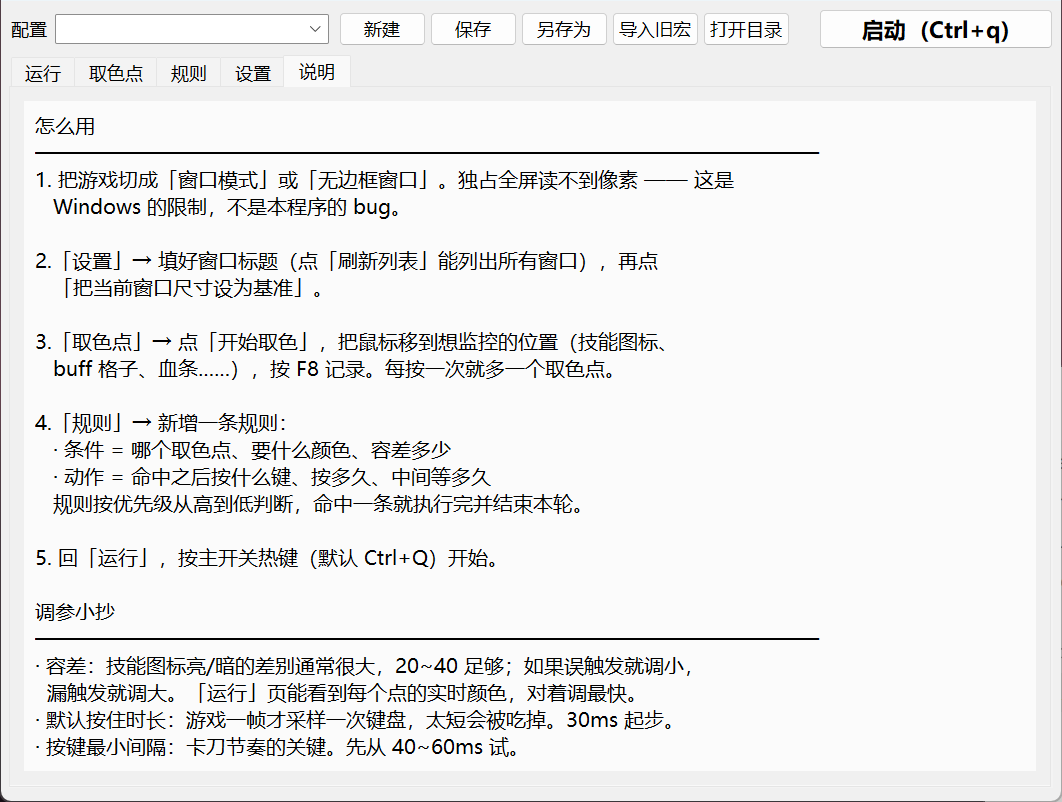
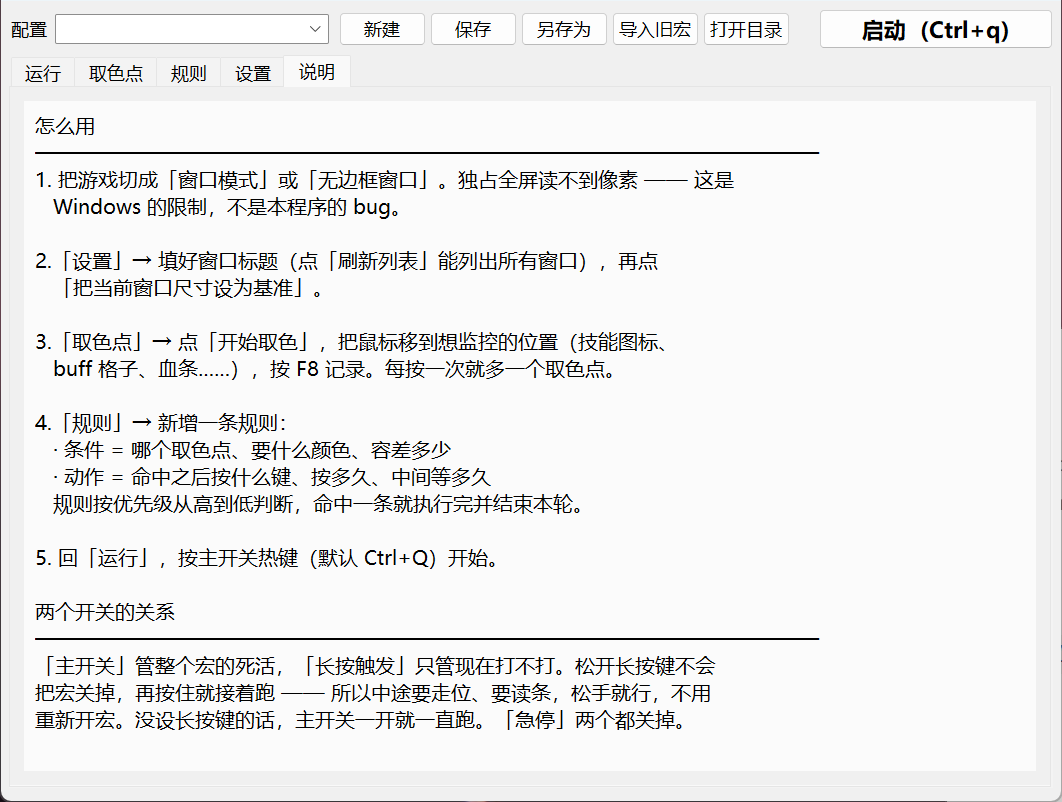
修复主开关与长按触发键共用一个标志导致的误关
_rebind_hotkeys 把 toggle 和 hold 两个热键接到了同一个 _active 上：
toggle 调 engine.toggle()，hold 松开时调 set_active(False)。
从旧宏导入的配置正好两个都有（settings.json 里的 global_key + main_macro.hotkey），
于是 Ctrl+Q 开宏后，侧键按一下再松开，整个宏就被关掉了，得重新开。
默认配置只有 toggle + panic，所以之前的冒烟测试和界面截图都没暴露。

拆成两个标志：_armed（主开关）和 _trigger（长按键），
active = armed and (trigger or 没绑长按键)。松开长按键只是暂停，
armed 保持不变，再按住就接着跑。

顺带三处：
- delay 动作从 sleep() 改成 _abort_sequence.wait()，否则急停时引擎线程
  要把剩下的延迟睡完才响应（键是松开了，但序列还会继续走）。
- Profile.problems() 增加「一条规则都没有」，否则空配置能启动、显示运行中、
  然后一声不响什么都不做。
- README 里的行数写错了（700 → 实际引擎 1700 + 界面 1500），
  并补上「目前不做什么」和「测到哪一步」两节：清怪/背包/计时器等没做，
  取色耗时是在桌面上实测的、还没对着游戏客户端验证过。

新增 6 个回归测试覆盖 armed/trigger 的交互。

diff --git a/bnsmacro/ui/app.py b/bnsmacro/ui/app.py
@@ -26,7 +26,7 @@ REFRESH_MS = 120
 
 HOTKEY_SLOTS = [
     ("toggle", "主开关", "开/关整个宏。"),
-    ("hold", "长按触发", "按住时才跑，松开就停（可留空）。"),
+    ("hold", "长按触发", "设了它就得按住才动；留空则开了就一直跑。"),
     ("panic", "急停", "立刻停宏并松开所有按键。"),
 ]
 
@@ -510,7 +510,7 @@ class App(tk.Tk):
             var.set(hk.describe() if hk and hk.key else "未设置")
         toggle = self.profile.hotkeys.get("toggle")
         label = toggle.describe() if toggle and toggle.key else "未设置"
-        base = "停止" if self.engine.active else "启动"
+        base = "停止" if self.engine.armed else "启动"
         self.btn_run.configure(text=f"{base}  ({label})")
 
     def _refresh_probe_tree(self) -> None:
@@ -628,18 +628,23 @@ class App(tk.Tk):
         for name in ("toggle", "hold", "panic"):
             self.hotkeys.remove(name)
         handlers = {
+            # the toggle key owns the master switch; the hold key owns only
+            # the trigger.  They must never write the same flag.
             "toggle": (self.engine.toggle, None),
-            "hold": (lambda: self.engine.set_active(True),
-                     lambda: self.engine.set_active(False)),
+            "hold": (lambda: self.engine.set_trigger(True),
+                     lambda: self.engine.set_trigger(False)),
             "panic": (self._panic, None),
         }
+        hold = self.profile.hotkeys.get("hold")
+        self.engine.set_requires_trigger(bool(hold and hold.key and hold.enabled))
         for slot, (on_press, on_release) in handlers.items():
             hk = self.profile.hotkeys.get(slot)
             if not hk or not hk.key or not hk.enabled:
                 continue
+            mode = "hold" if slot == "hold" else hk.mode
             self.hotkeys.set(Binding(
                 name=slot, key=hk.key, modifiers=hk.modifiers,
-                mode=hk.mode, swallow=hk.swallow,
+                mode=mode, swallow=hk.swallow,
                 on_press=on_press, on_release=on_release,
             ))
 
@@ -649,7 +654,7 @@ class App(tk.Tk):
 
     def _toggle_macro(self) -> None:
         problems = self.profile.problems()
-        if not self.engine.active and problems:
+        if not self.engine.armed and problems:
             if not messagebox.askokcancel(
                     "配置有问题", "\n".join(problems) + "\n\n还是要启动吗？", parent=self):
                 return
@@ -968,10 +973,14 @@ class App(tk.Tk):
             if status.active:
                 self.var_state.set("运行中")
                 self.lbl_state.configure(foreground="#1e8449")
+            elif self.engine.waiting_for_trigger:
+                hold = self.profile.hotkeys.get("hold")
+                self.var_state.set(f"等待 {hold.describe()}")
+                self.lbl_state.configure(foreground="#b9770e")
             else:
                 self.var_state.set("已停止")
                 self.lbl_state.configure(foreground="#7f8c8d")
-            base = "停止" if status.active else "启动"
+            base = "停止" if self.engine.armed else "启动"
             toggle = self.profile.hotkeys.get("toggle")
             label = toggle.describe() if toggle and toggle.key else "未设置"
             self.btn_run.configure(text=f"{base}  ({label})")
@@ -1038,6 +1047,12 @@ HELP_TEXT = """\
    规则按优先级从高到低判断，命中一条就执行完并结束本轮。
 
 5. 回「运行」，按主开关热键（默认 Ctrl+Q）开始。
+
+两个开关的关系
+────────────────────────────────────────────────────────
+「主开关」管整个宏的死活，「长按触发」只管现在打不打。松开长按键不会
+把宏关掉，再按住就接着跑 —— 所以中途要走位、要读条，松手就行，不用
+重新开宏。没设长按键的话，主开关一开就一直跑。「急停」两个都关掉。
 
 调参小抄
 ────────────────────────────────────────────────────────

diff --git a/bnsmacro/engine.py b/bnsmacro/engine.py
@@ -77,6 +77,13 @@ class MacroEngine:
         self._lock = threading.RLock()
         self._thread: Optional[threading.Thread] = None
         self._stop = threading.Event()
+        # The macro runs only when it is BOTH armed (master switch) and, if a
+        # hold key is configured, that key is down.  Two separate flags: an
+        # earlier version let the toggle key and the hold key write the same
+        # boolean, so releasing the hold key switched the whole macro off.
+        self._armed = False
+        self._trigger = False
+        self._requires_trigger = False
         self._active = threading.Event()
         self._abort_sequence = threading.Event()
         self._sender = Sender()
@@ -130,9 +137,46 @@ class MacroEngine:
             self._capture.close()
             self._capture = None
 
-    def set_active(self, active: bool) -> None:
-        was = self._active.is_set()
-        if active:
+    # The master switch.  This is what the toggle hotkey and the big button
+    # drive; it survives the hold key going up and down.
+    def set_armed(self, armed: bool) -> None:
+        with self._lock:
+            if self._armed == armed:
+                return
+            self._armed = armed
+        self.log("宏已开启" if armed else "宏已关闭", LOG_INFO)
+        self._recompute()
+
+    def toggle(self) -> None:
+        self.set_armed(not self._armed)
+
+    # The hold key, if the profile has one.  Never touches _armed.
+    def set_trigger(self, held: bool) -> None:
+        with self._lock:
+            if self._trigger == held:
+                return
+            self._trigger = held
+        self._recompute()
+
+    def set_requires_trigger(self, required: bool) -> None:
+        """Tell the engine whether a hold key is bound at all.
+
+        With no hold key, being armed is enough to run.  With one, the macro
+        idles until it is pressed.
+        """
+        with self._lock:
+            if self._requires_trigger == required:
+                return
+            self._requires_trigger = required
+            self._trigger = False
+        self._recompute()
+
+    def _recompute(self) -> None:
+        with self._lock:
+            want = self._armed and (self._trigger or not self._requires_trigger)
+        if want == self._active.is_set():
+            return
+        if want:
             self._active.set()
         else:
             self._active.clear()
@@ -141,11 +185,20 @@ class MacroEngine:
                 self._sender.release_all()
             except InputError:
                 pass
-        if was != active:
-            self.log("宏已启动" if active else "宏已停止", LOG_INFO)
 
-    def toggle(self) -> None:
-        self.set_active(not self._active.is_set())
+    def set_active(self, active: bool) -> None:
+        """Hard stop / start, used by 急停 and by shutdown."""
+        self.set_armed(active)
+        if not active:
+            self.set_trigger(False)
+
+    @property
+    def armed(self) -> bool:
+        return self._armed
+
+    @property
+    def waiting_for_trigger(self) -> bool:
+        return self._armed and self._requires_trigger and not self._trigger
 
     @property
     def active(self) -> bool:
@@ -271,7 +324,8 @@ class MacroEngine:
     def _run_action(self, action: Action, default_hold: int) -> None:
         kind = action.type
         if kind == "delay":
-            time.sleep(self._jitter(action.ms) / 1000.0)
+            # wait() rather than sleep() so 急停 cuts a long delay short
+            self._abort_sequence.wait(self._jitter(action.ms) / 1000.0)
             return
         if kind == "move":
             self._sender.move_relative(action.dx, action.dy)

diff --git a/tests/test_core.py b/tests/test_core.py
@@ -126,6 +126,65 @@ class TestRuleMatching(unittest.TestCase):
         self.assertEqual([r.id for r in profile.sorted_rules()], ["high", "low"])
 
 
+class TestArmedVsTrigger(unittest.TestCase):
+    """The toggle key and the hold key must not share one flag.
+
+    Regression: a legacy config carries both (global_key + main_macro.hotkey),
+    and when both wrote the same boolean, releasing the hold key switched the
+    whole macro off.
+    """
+
+    def setUp(self):
+        self.engine = MacroEngine(Profile())
+
+    def test_armed_alone_runs_when_no_hold_key(self):
+        self.engine.set_armed(True)
+        self.assertTrue(self.engine.active)
+
+    def test_hold_key_gates_without_disarming(self):
+        self.engine.set_requires_trigger(True)
+        self.engine.set_armed(True)
+        self.assertFalse(self.engine.active)
+        self.assertTrue(self.engine.waiting_for_trigger)
+
+        self.engine.set_trigger(True)
+        self.assertTrue(self.engine.active)
+
+        self.engine.set_trigger(False)
+        self.assertFalse(self.engine.active)
+        self.assertTrue(self.engine.armed, "releasing the hold key must not disarm")
+
+        self.engine.set_trigger(True)
+        self.assertTrue(self.engine.active, "must resume without re-toggling")
+
+    def test_trigger_alone_does_nothing_while_disarmed(self):
+        self.engine.set_requires_trigger(True)
+        self.engine.set_trigger(True)
+        self.assertFalse(self.engine.active)
+
+    def test_toggle_flips_the_master_switch(self):
+        self.engine.toggle()
+        self.assertTrue(self.engine.armed)
+        self.engine.toggle()
+        self.assertFalse(self.engine.armed)
+
+    def test_panic_stops_even_while_trigger_is_held(self):
+        self.engine.set_requires_trigger(True)
+        self.engine.set_armed(True)
+        self.engine.set_trigger(True)
+        self.engine.set_active(False)
+        self.assertFalse(self.engine.active)
+        self.assertFalse(self.engine.armed)
+
+    def test_binding_a_hold_key_later_does_not_strand_the_macro(self):
+        self.engine.set_armed(True)
+        self.assertTrue(self.engine.active)
+        self.engine.set_requires_trigger(True)   # user assigns a hold key
+        self.assertFalse(self.engine.active)
+        self.engine.set_requires_trigger(False)  # and clears it again
+        self.assertTrue(self.engine.active)
+
+
 class TestProfile(unittest.TestCase):
     def _sample(self) -> Profile:
         return Profile(
@@ -158,6 +217,10 @@ class TestProfile(unittest.TestCase):
         profile = Profile(rules=[Rule(id="r1", name="空")])
         issues = profile.problems()
         self.assertEqual(len(issues), 2)  # no conditions, no actions
+
+    def test_problems_flags_a_profile_with_no_rules(self):
+        # otherwise it starts, says 运行中, and silently does nothing
+        self.assertTrue(any("规则" in p for p in Profile().problems()))
 
     def test_id_generators_skip_used_ids(self):
         profile = Profile(probes=[Probe("p1", 0, 0), Probe("p2", 0, 0)],

diff --git a/bnsmacro/profile.py b/bnsmacro/profile.py
@@ -246,6 +246,8 @@ class Profile:
     def problems(self) -> List[str]:
         """Human-readable list of things that would stop the macro working."""
         issues: List[str] = []
+        if not self.rules:
+            issues.append("一条规则都没有，跑起来也不会按任何键")
         ids = [p.id for p in self.probes]
         if len(ids) != len(set(ids)):
             issues.append("取色点 ID 重复")

diff --git a/README.md b/README.md
@@ -3,8 +3,9 @@
 一个**自己拿得住源码**的取色宏：盯住屏幕上几个像素点，颜色对上了就按你指定的键。
 
 市面上的取色宏都是打包好的 exe —— 取色点存在哪、按什么顺序按、判断逻辑长什么样，
-你都看不见，想改一个延迟都得等作者更新。这个项目把同样的事情用 700 行 Python 重写了一遍：
-规则是一个你能用记事本打开的 JSON，引擎是一个你能读完的循环。
+你都看不见，想改一个延迟都得等作者更新。这个项目把同样的事情重写了一遍：
+引擎 1700 行 Python、界面 1500 行，规则是一个你能用记事本打开的 JSON，
+主循环短到能一口气读完。
 
 > ⚠ 自动化按键可能违反游戏的用户协议。用不用、怎么用，自己拿主意。
 
@@ -23,6 +24,10 @@
   换分辨率按比例缩放。
 - **多套配置**：一个职业一个 JSON，下拉框切换。
 - **导入旧宏**：能把旧宏 `data/settings.json` 里的热键和节奏搬过来。
+
+主开关和长按触发键是**两个独立的开关**：主开关（默认 Ctrl+Q）管整个宏的死活，
+长按键只管"现在打不打"。松开长按键不会把宏关掉，再按住就接着跑。
+没设长按键的话，开了就一直跑。
 
 | 取色 | 规则 | 设置 |
 |---|---|---|
@@ -104,6 +109,18 @@ python run.py
 
 ---
 
+## 目前不做什么
+
+这个项目只做**取色 → 按键**这一件事，做扎实。原版宏里的这些功能没有实现：
+
+- 自动清怪 / 刷怪（转视角找怪、怪物匹配度、自动捡箱子、自动切线、防跳保护）
+- 自动背包分解、自动换装、切频道、点龙脉
+- 技能计时器（语音提示 / 打字提示）
+
+不是做不了 —— 转视角需要的 `move_relative` 已经在 `input.py` 里，规则引擎也能承载 ——
+只是这些属于"自动打怪"而不是"取色宏"，摊开做会让核心变糊。要加的话从
+`engine.py` 的规则循环往外长就行。
+
 ## 三个你会撞上的 Windows 事实
 
 写这个东西的时候量过，写下来免得你重新踩一遍。
@@ -155,6 +172,15 @@ python -m unittest discover -s tests -v
 ```
 
 ---
+
+## 测到哪一步
+
+上面那些取色耗时数字，是在 60Hz 桌面上实测的（`BitBlt` 16.7ms/次，`GetDIBits`
+0.012ms，`SendInput` 扫描码注入、全局钩子、热键分发、急停打断都跑通了）。
+
+**但是：还没有对着运行中的剑灵客户端验证过。** 具体这个客户端在窗口模式下能不能
+被 `BitBlt` 读到、UI 元素的颜色够不够稳定，需要你自己跑一遍确认。
+第一次用先只配一条规则，在「运行」页盯着实时颜色看数值稳不稳，再往上加。
 
 ## 常见问题
 
